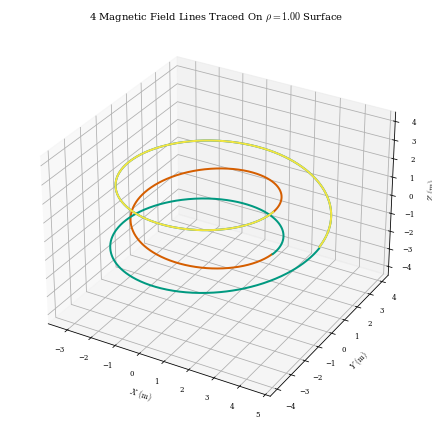
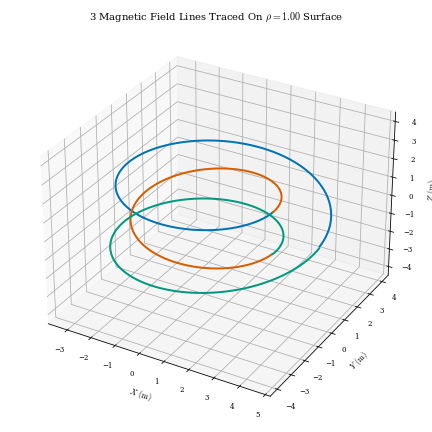
update field_line figure to not double-plot the line at theta=0

diff --git a/desc/plotting.py b/desc/plotting.py
@@ -3193,8 +3193,9 @@ def plot_field_lines_sfl(
         import desc.examples
         import numpy as np
         eq = desc.examples.get("DSHAPE")
+        seed_thetas=np.linspace(0, 2 * np.pi, 3,endpoint=False)
         fig, ax, _ = plot_field_lines_sfl(
-            eq, rho=1, seed_thetas=np.linspace(0, 2 * np.pi, 4), phi_end=2 * np.pi
+            eq, rho=1,seed_thetas=seed_thetas , phi_end=2 * np.pi
         )
 
     """
